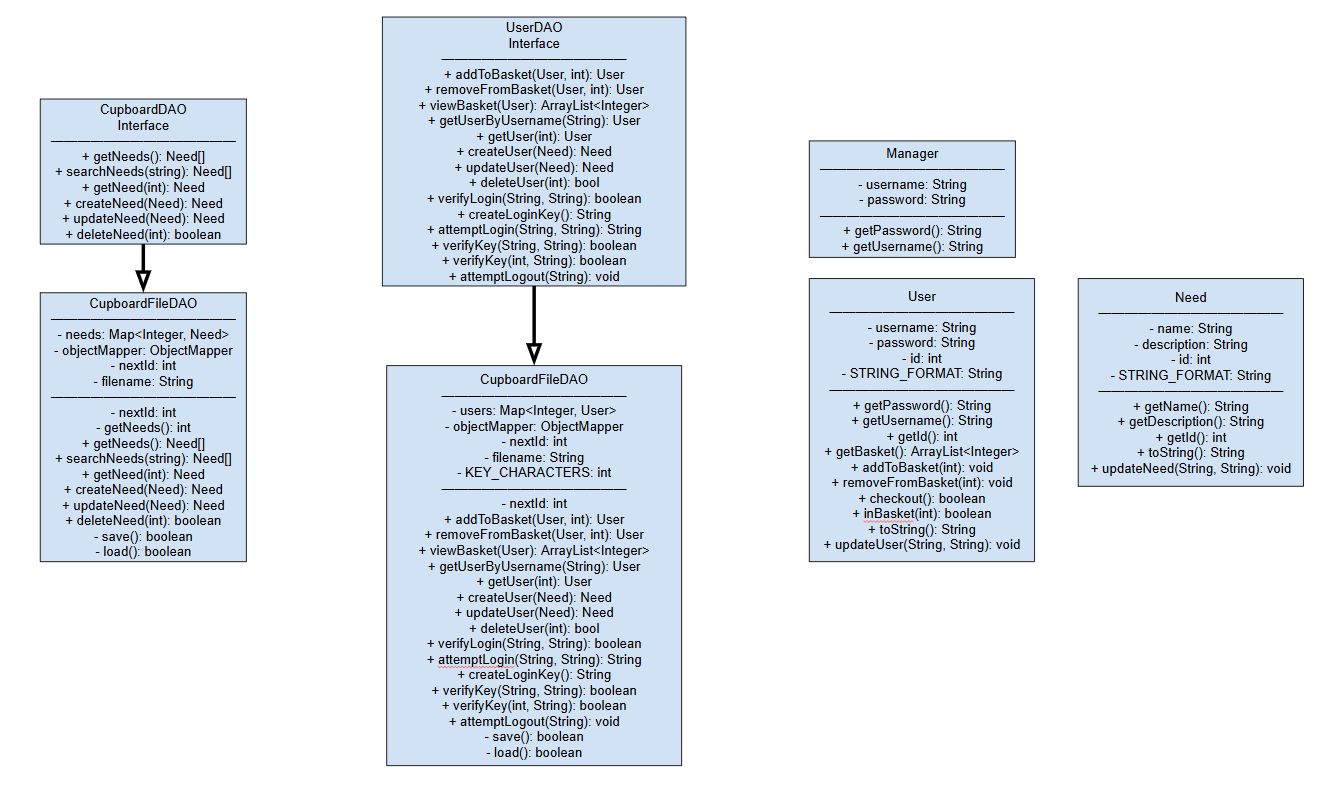
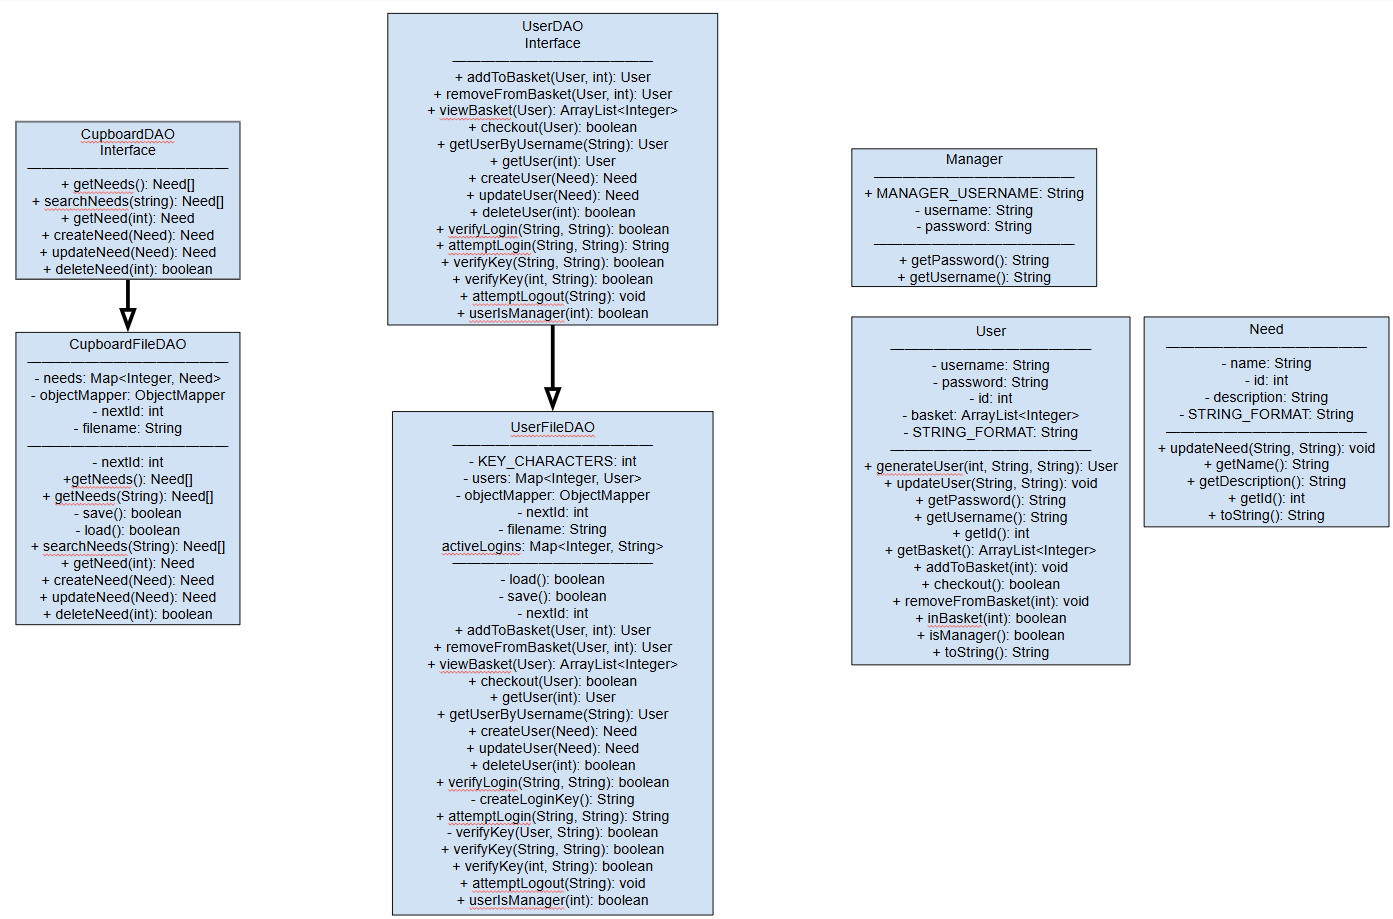
Finalized most of design doc

Changed region(s): [[0.2798, 0.0, 0.5284, 1.0], [0.5906, 0.1525, 1.0, 0.7319], [0.0, 0.122, 0.1865, 0.7319]]

diff --git a/docs/DesignDoc.md b/docs/DesignDoc.md
@@ -1,12 +1,7 @@
 ---
 geometry: margin=1in
 ---
-# PROJECT Design Documentation
-
-> _The following template provides the headings for your Design
-> Documentation.  As you edit each section make sure you remove these
-> commentary 'blockquotes'; the lines that start with a > character
-> and appear in the generated PDF in italics but do so only **after** all team members agree that the requirements for that section and current Sprint have been met. **Do not** delete future Sprint expectations._
+# Goated U-Fund Design Documentation
 
 ## Team Information
 * Team name: Goated
@@ -56,6 +51,7 @@ This section describes the application domain.
 
 ![Domain Model](image.png)
 
+<!--DO THIS ASAP!!!!!!!!!!!!!!!!!!!!!!!!!!!!!!!!!!!!!!!!!!-->
 > _**[Sprint 2 & 4]** Provide a high-level overview of the domain for this application. You
 > can discuss the more important domain entities and their relationship
 > to each other._
@@ -125,7 +121,7 @@ User Controller - Provides API functionality to for all Helper related tasks
 > _At appropriate places as part of this narrative provide **one** or more updated and **properly labeled**
 > static models (UML class diagrams) with some details such as associations (connections) between classes, and critical attributes and methods. (**Be sure** to revisit the Static **UML Review Sheet** to ensure your class diagrams are using correct format and syntax.)_
 > 
-![Replace with your Controller Tier class diagram 1, etc.](Controller-UML.png)
+![Controller UML Diagram](Controller-UML.png)
 
 ### Model Tier
 
@@ -140,7 +136,8 @@ In this tier, interaction with the raw data is done and manipulated. The methods
 > _At appropriate places as part of this narrative provide **one** or more updated and **properly labeled**
 > static models (UML class diagrams) with some details such as associations (connections) between classes, and critical attributes and methods. (**Be sure** to revisit the Static **UML Review Sheet** to ensure your class diagrams are using correct format and syntax.)_
 > 
-![Model UML diagram](model.png)
+
+![Model UML Diagram](model.png)
 
 ## OO Design Principles
 
@@ -151,6 +148,7 @@ Dependency Inversion/Injection: We use interfaces for the dependancies.<br>
 Controller: We implemented controllers for each object.<br>
 Pure Fabrication: We have created DAO files.
 
+<!--DO THIS ASAP!!!!!!!!!!!!!!!!!!!!!!!!!!!!!!!!!!!!!!!!!!-->
 > _**[Sprint 2, 3 & 4]** Will eventually address upto **4 key OO Principles** in your final design. Follow guidance in augmenting those completed in previous Sprints as indicated to you by instructor. Be sure to include any diagrams (or clearly refer to ones elsewhere in your Tier sections above) to support your claims._
 
 > _**[Sprint 3 & 4]** OO Design Principles should span across **all tiers.**_
